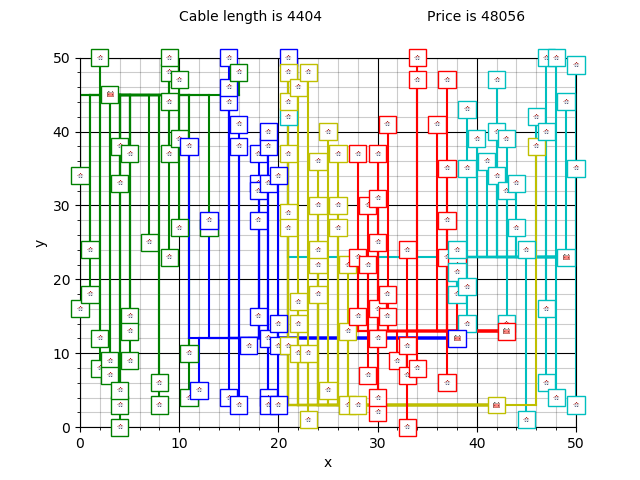
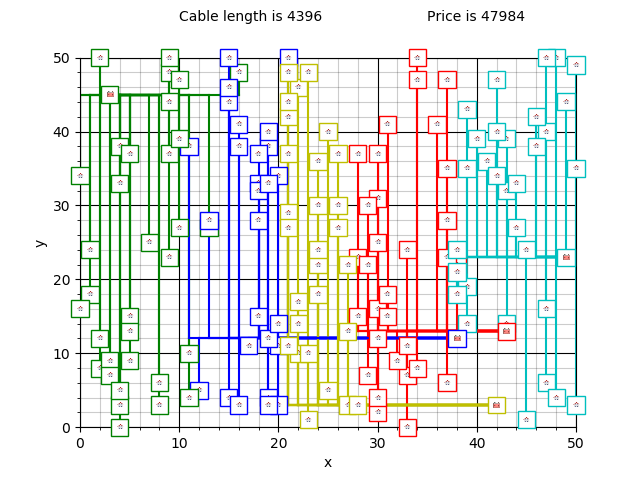
switched alleen als nodig

diff --git a/sorting_algorithm.py b/sorting_algorithm.py
@@ -1,5 +1,3 @@
-from switcher import switching_algorithm
-
 def sorting_algorithm(batteries, houses, sort_battery, sort_house):
 	
 	#Algorithm
@@ -24,7 +22,6 @@ def sorting_algorithm(batteries, houses, sort_battery, sort_house):
 		while (house_placed == False):
 			if (batteries[i].add_house(house)):
 				house_placed = True
-				print ("House {} is connected to battery {} voltage {}".format(house.id, house.battery_no, house.voltage))
 			i+=1
 			if (i > len(batteries) - 1 and house_placed == False):
 				solution = False
@@ -32,9 +29,5 @@ def sorting_algorithm(batteries, houses, sort_battery, sort_house):
 	
 	for i in range(0, len(batteries) - 1):
 		print (batteries[i].spare_voltage)
-	
-	solution = switching_algorithm(batteries, houses)
-	batteries = solution[0]
-	houses = solution[1]
 
 	return [batteries, houses, solution]

diff --git a/switcher.py b/switcher.py
@@ -1,6 +1,19 @@
 def switching_algorithm(batteries, houses):
 	print ("#############################")
 	
+	houses = sorted(houses, key=lambda house: house.id)
+	
+	unplaced_houses = 0
+	for house in houses:
+		if (house.battery_no >= 0):
+			print ("House {} is connected to battery {} voltage {}".format(house.id, house.battery_no, house.voltage))
+		else:
+			print ("House {} is not connected, voltage is {}".format(house.id, house.voltage))
+			unplaced_houses += 1
+	if (unplaced_houses == 0):
+		print ("HOORAY")
+		return [batteries, houses]
+	
 	makeroom = sorted(batteries, key=lambda battery: battery.spare_voltage)[4]
 	fill = sorted(batteries, key=lambda battery: battery.spare_voltage)[3]
 	print("Ruimte naar batterij {} spare voltage {}".format(makeroom.name, makeroom.spare_voltage))

diff --git a/main.py b/main.py
@@ -5,6 +5,7 @@ from download_data import download_data
 from plot_grid import plot_grid as plot_grid
 from ask_nicely import ask_nicely
 from score_function import score_function
+from switcher import switching_algorithm
 
 # remember the method to use
 method = ask_nicely()
@@ -31,6 +32,11 @@ elif (method[1] == "sorting"):
 	information = sorting_algorithm(batteries, houses, battery_sort, house_sort)
 batteries = information[0]
 houses = information[1]
+
+# SWITCH (and print cables)
+solution = switching_algorithm(batteries, houses)
+batteries = solution[0]
+houses = solution[1]
 
 # SCORE
 cost_of_neighborhood = score_function(houses, batteries)

diff --git a/neighborhood_classes.py b/neighborhood_classes.py
@@ -7,7 +7,7 @@ class House:
 		self.y = y
 		self.voltage = voltage
 		self.id = id
-		self.battery_no = None
+		self.battery_no = -1
 		self.placed = False
 		self.id = id
 

diff --git a/score_function.py b/score_function.py
@@ -1,7 +1,6 @@
 import math
 
 def score_function(houses, batteries):
-	print("hey")
 	cost_of_neighborhood = 0
 	for house in houses:
 		if (int(house.battery_no) >= 0):
